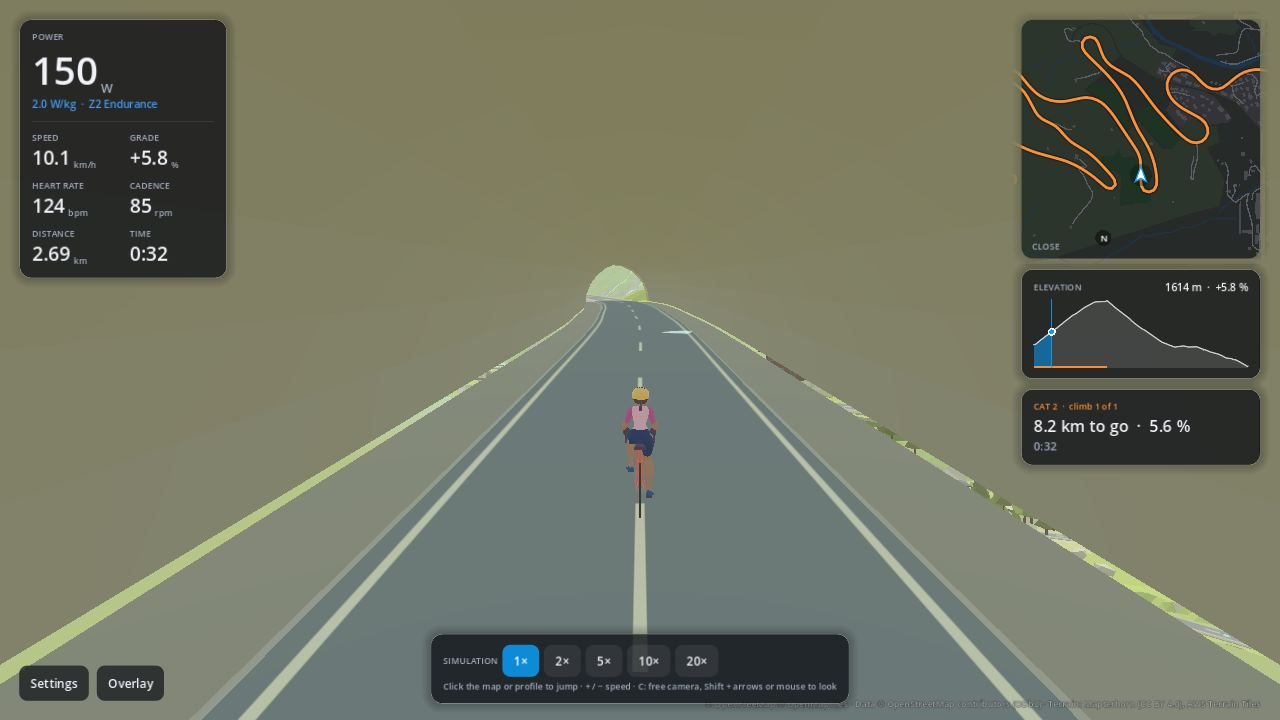
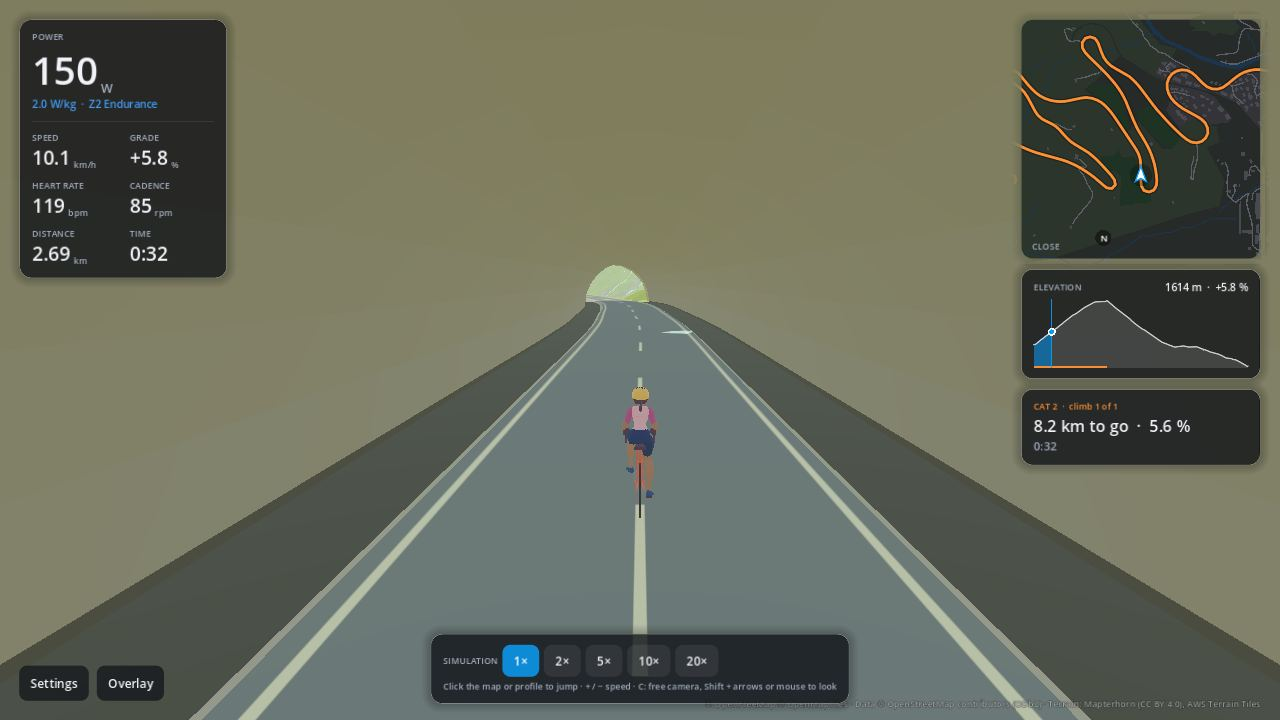
fix(world): the tube's walls meet its floor, and the floor is darker (#135)
The walls stood at the road's level and the floor just under it, so a slit ran
the length of the tunnel between their feet and the floor, and the hillside
showed through it as a pale strip either side of the road. A skirt from each
foot down to the floor closes it; the floor, lit from above like the ground
outside, is darker than the walls.

Changed region(s): [[0.5, 0.3972, 1.0, 1.0], [0.0, 0.4278, 0.4688, 1.0], [0.0312, 0.275, 0.0625, 0.3056]]

diff --git a/core/torqa-world/src/structures.rs b/core/torqa-world/src/structures.rs
@@ -18,6 +18,12 @@ use crate::{LEVEL_REACH, MeshData, ROAD_HALF_WIDTH, ROAD_SINK, Shapers, palette,
 static CONCRETE: LazyLock<[f32; 4]> = LazyLock::new(|| palette::srgb("structure.concrete", 0.0));
 static STONE: LazyLock<[f32; 4]> = LazyLock::new(|| palette::srgb("structure.stone", 0.0));
 static TUNNEL_WALL: LazyLock<[f32; 4]> = LazyLock::new(|| palette::srgb("structure.tunnel", 0.0));
+/// The tube's floor, darker than its walls: lit from above like the ground outside, in the
+/// walls' colour it lay as a pale strip either side of the road.
+static TUNNEL_FLOOR: LazyLock<[f32; 4]> = LazyLock::new(|| {
+    let [r, g, b, a] = *TUNNEL_WALL;
+    [r * 0.55, g * 0.55, b * 0.55, a]
+});
 
 /// Half the deck width: the road plus a narrow kerb.
 const DECK_HALF_WIDTH: f64 = 3.6;
@@ -1080,7 +1086,9 @@ async fn tunnel<M: ElevationModel>(
     }
     for (i, pair) in run.windows(2).enumerate() {
         let a = pair[0];
-        // The floor, just under the road so the two never flicker, seen from inside.
+        // The floor, just under the road so the two never flicker, seen from inside, and a
+        // skirt from each wall's foot down to it: the walls stand at the road's level, and the
+        // slit between their feet and the floor showed the hillside through.
         let sunk = |point: [f64; 3]| [point[0], point[1] - ROAD_SINK, point[2]];
         quad(
             mesh,
@@ -1091,8 +1099,22 @@ async fn tunnel<M: ElevationModel>(
                 sunk(rings[i][0]),
             ],
             [0.0, 1.0, 0.0],
-            *TUNNEL_WALL,
+            *TUNNEL_FLOOR,
         );
+        let towards_axis = right(a.centre);
+        for (foot, inward) in [(ARCH_SEGMENTS, towards_axis), (0, towards_axis.map(|v| -v))] {
+            quad(
+                mesh,
+                [
+                    rings[i][foot],
+                    rings[i + 1][foot],
+                    sunk(rings[i + 1][foot]),
+                    sunk(rings[i][foot]),
+                ],
+                inward,
+                *TUNNEL_FLOOR,
+            );
+        }
         for k in 0..ARCH_SEGMENTS {
             let corners = [
                 rings[i][k],
